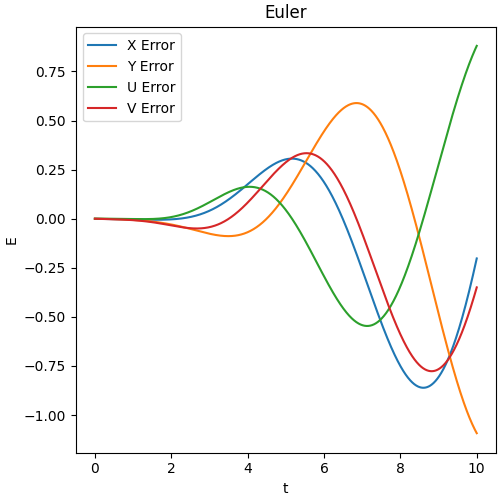
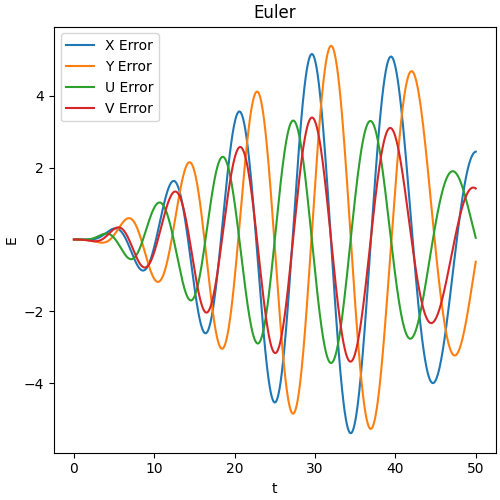
note

diff --git a/sources/resources/Error_Evaluation.py b/sources/resources/Error_Evaluation.py
@@ -1,8 +1,15 @@
-from numpy import linspace, zeros
+from numpy import linspace, zeros, log10, round_
 from numpy.linalg import norm
+from sklearn.linear_model import LinearRegression
 from resources.Cauchy_Problem import Cauchy
+#def Error_btw_grids (Time_Scheme, F, U0, t, a):
+
+#    t_2 =linspace(0, t[len(t) - 1], a*len(t))
+#    U_t = Cauchy(F, Time_Scheme, U0, t)
+#    U_t_2 =  Cauchy(F, Time_Scheme, U0, t_2)
 
 def Error_Cauchy_Problem (Time_Scheme, Scheme_Order, F, U0, t):
+
 
     # Computes the error of the obtained solution of a Cauchy problem
     # using the Richardson extrapolation:
@@ -31,28 +38,49 @@ def Convergence_Rate(Time_Scheme, F, U0, t):
     
     k = 10 # Numero de ptos que cojo en la gráfica (N1, N2=2*N1, N3=2*N2...) (numero de cauchy problems que te tienes que hacer)
     Nt = len(t)
+    T = t[Nt-1]
     NU = len(U0) 
+
     E = zeros([Nt, NU])
-    log_E = zeros(k)
-    log_N = zeros(k)
-    lin_log_E = zeros(k)
-    lin_log_N = zeros(k)
-    U_t = Cauchy(F, Time_Scheme, U0, t)
+    log_diff_U21 = zeros(k)
+    log_Nt = zeros(k)
+    lin_log_diff_U21 = zeros(k)
+    lin_log_Nt = zeros(k)
     order = 0
 
-    for i in range (k):
-        t_2 =linspace(0, t[Nt - 1], 2*Nt)
-        U_t_2 =  Cauchy(F, Time_Scheme, U0, t_2)
-        # Tiene que haber una forma de hacerlo llamando al Cauchy problem, pero hoy ya no puc mes
-
-
-
-
-
+    U_t = Cauchy(F, Time_Scheme, U0, t)
     
 
+    for i in range (k):
+
+        Nt = 2*Nt
+        t_2 =linspace(0, T, Nt)
+        U_t_2 =  Cauchy(F, Time_Scheme, U0, t_2)
+        #Deberias modificar el codigo del error pa 
+        # que puedas elegir la diferencia entre las mallas
+        # y para que te devuelva el error y la norma de 
+        # U2-U1, pero hoy ya no puc mes
+
+        log_diff_U21[i] = log10(norm(U_t_2[int(Nt - 1), :] - U_t[int(0.5*Nt - 1), :]))
+        log_Nt[i] = log10(Nt)
+
+        U_t = U_t_2
+        
+        for j in range(k):
+
+         if (abs(log_diff_U21[j]) > 12):
+
+             break
+        
+    l=min(j, k)
 
 
-    return [order, log_E, log_N, lin_log_E, lin_log_N ]
+    reg= LinearRegression().fit(log_Nt[0:j+1].reshape((-1, 1)),log_diff_U21[0:j+1]) 
+    order = round_(abs(reg.coef_),1)
+
+    lin_log_Nt = log_Nt[0:j+1]
+    lin_log_diff_U21 = reg.predict(log_Nt[0:j+1].reshape((-1, 1)))
+        
 
 
+    return [log_diff_U21, log_Nt, lin_log_diff_U21, lin_log_Nt, order]

diff --git a/sources/Milestone3.py b/sources/Milestone3.py
@@ -1,24 +1,39 @@
-from numpy import linspace, array
+from numpy import linspace, array, round
 import matplotlib.pyplot as plt
 from resources.Cauchy_Problem import Cauchy
 from resources.Time_Schemes import Euler, CN, RK4, BW_Euler
 from resources.Forcing_Sides import Kepler
-from resources.Error_Evaluation import Error_Cauchy_Problem
+from resources.Error_Evaluation import Error_Cauchy_Problem, Convergence_Rate
 
-N = 1000
-T = 10
-t = linspace(0, T, N)
+from matplotlib import rc # LaTeX tipography
+rc('font',**{'family':'sans-serif','sans-serif':['Helvetica']})
+## for Palatino and other serif fonts use:
+#rc('font',**{'family':'serif','serif':['Palatino']})
+rc('text', usetex=True)
+plt.rc('text', usetex=True); plt.rc('font', family='serif')
+
+import matplotlib
+matplotlib.rc('xtick', labelsize=18) 
+matplotlib.rc('ytick', labelsize=18)
+
+Nt = 200
+T = 40
+t = linspace(0, T, Nt)
 U0 = array ([1, 0, 0, 1])
 
 t_schemes = [ Euler, CN, RK4, BW_Euler ]
 scheme_order = [1, 2, 4, 1]
 t_scheme_name = [ "Euler", "CN" , "RK4", "BW_Euler" ]
 t_scheme_fig = [ "Euler", "CN" , "RK4", "BW_Euler" ]
+
+
 i = 0
 for t_scheme in t_schemes:
 
    
     E = Error_Cauchy_Problem(t_scheme, scheme_order[i], Kepler, U0, t)
+    
+
     plt.figure(figsize=(5, 5), layout='constrained')
     plt.plot(t, E[:, 0], label='X Error') 
     plt.plot(t, E[:, 1], label='Y Error')
@@ -31,6 +46,21 @@ for t_scheme in t_schemes:
     plt.title( t_scheme_name[i])  # Add a title to the axes.
     plt.legend()
     plt.show()
-    plt.savefig(t_scheme_fig[i])
-    i=i+1
+    plt.savefig('Error_' + t_scheme_fig[i] + '.png')
 
+    [log_diff_U21, log_Nt, lin_log_diff_U21, lin_log_Nt, order] = Convergence_Rate(t_scheme, Kepler, U0, t)
+    
+    
+    plt.plot(log_Nt, log_diff_U21, label = t_scheme_fig[i])
+    plt.plot(lin_log_Nt, lin_log_diff_U21, label = 'Linear regression')
+    plt.xlabel("log(Nt)")
+    plt.ylabel("log(U2-U1)")
+    plt.title(t_scheme_name[i] + " order = " +str(round(order)))
+    plt.legend()
+    plt.plot()
+    plt.grid()
+    
+    plt.savefig('Convergence_Rate' + t_scheme_name[i] + '.png')
+
+    i=i+1
+    

diff --git a/class/Python_alias.py b/class/Python_alias.py
@@ -1,0 +1,82 @@
+from numpy import array, reshape
+
+
+a = 4
+pa = a
+
+print(id(a), id(pa)) # los dos me dan el id de 3, estoy llamando al misnmo espacio de memoria, por eso 
+
+a = 3 # el tres es un objeto
+
+print(id(a), id(pa)) # como  el tres es un objeto distinto al 4 y yo la etiqueta pa se la estaba dando a 4, 
+                     # ahora cambio el objetode pa pero no el de a, a a se le ha asignado un nuevo objeto
+
+
+#############################################################################################################
+
+L = [1, 2, 3] 
+pL = L # alias
+
+print("pL = ", pL)
+print("idpL = ", id(L))
+L[0] = 0
+
+print("pL = ", pL)
+print("idpL = ", id(L))
+L = L + [1, 2, 3]
+print("pL = ", L)
+print("idL = ", id(L))
+
+L = [1, 2, 3] 
+pL = L[:] # cloning
+
+#############################################################################################################
+
+b = array([1, 2, 3] )
+pb = b
+
+print(id(b), id(pb))
+
+b =b+1
+
+print("b = ", b, "pb = ", pb)
+print(id(b), id(pb))
+
+b[:] =b[:]+1
+
+print("b = ", b, "pb = ", pb)
+print(id(b), id(pb))
+
+
+
+#############################################################################################################
+
+c = array([1, 2, 3])
+pc = c[:].copy()
+
+c[:] = c[:] + 1
+print("c = ", c, "pc = ", pc)
+
+#############################################################################################################
+
+d = array([1, 2, 3, 4])
+
+pd =reshape(d, (2, 2))
+
+print("d = ", d, "pd = ", pd)
+print(id(d), id(pd))
+
+d[:] = 0
+
+print("d = ", d, "pd = ", pd)
+print(id(d), id(pd))
+
+############################################
+
+U = array([1, 2, 3, 4])
+U = reshape(U, (2, 2))
+print("U =", U)
+#U[:,[0,1]] = U[:,[1,0]] #esto es un mapping y esuna forma nais de hacer un mapping
+# U[:,0],  U[:,1] = U[:,1],  U[:,0]
+U[:,0],  U[:,1] = U[:,1].copy(),  U[:,0].copy()
+print("U =", U) 
